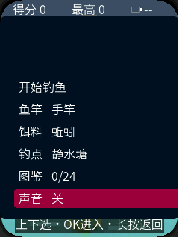
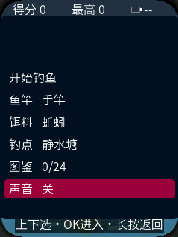
docs(fishing): v3 改进交付报告（红线自检 + 对比图 + 待裁定事项）
按《任务下达书》第七节交付：
- 代码 diff：提交 e9407cc（A/B/D）与 73a08e4（面板内边距修复）
- 字库报告：508 字形，check_cjk_coverage 判定 0 缺字
- 时段/天气对比图：assets/preview/05-env-matrix.png（4 时段 × 3 天气，240×320 渲染）
- 红线自检：九条红线 + 审核清单八条 + v2 禁改清单逐条核对，附实测坐标证据
- 待裁定四事：时段时钟定义 / C 每日挑战是否另起一轮 / 内边距修复是否接受 / 图鉴八行排布

真固件实测证据（CI run 41769287622，固件 1,648,416 B，sha256 beac1329…）：
网页模拟器 12/12 全绿，含新增的「时段·天气标签」「图鉴性格钩子与里程碑两行」两条判据。

Changed region(s): [[0.0, 0.2954, 1.0, 0.8861], [0.0, 0.0, 1.0, 0.0886], [0.0, 0.9156, 1.0, 1.0]]

diff --git a/钓鱼v3改进_交付报告.html b/钓鱼v3改进_交付报告.html
@@ -1,0 +1,268 @@
+<!DOCTYPE html>
+<html lang="zh-CN">
+<head>
+<meta charset="utf-8">
+<meta name="viewport" content="width=device-width, initial-scale=1">
+<title>竿影浮标 v3 改进 · 交付报告（待 AIpp总监检核）</title>
+<style>
+  :root{
+    --ink:#161a22; --sub:#5a6172; --line:#e3e6ec; --bg:#f6f7f9; --card:#ffffff;
+    --accent:#99003a; --ok:#1f7a44; --warn:#8a5a00; --bad:#a32020;
+  }
+  *{box-sizing:border-box}
+  body{margin:0;background:var(--bg);color:var(--ink);
+    font:16px/1.75 -apple-system,BlinkMacSystemFont,"Segoe UI","Microsoft YaHei",sans-serif}
+  .wrap{max-width:1000px;margin:0 auto;padding:32px 20px 72px}
+  header{background:var(--card);border:1px solid var(--line);border-left:5px solid var(--accent);
+    border-radius:10px;padding:22px 26px;margin-bottom:22px}
+  h1{margin:0 0 8px;font-size:24px;letter-spacing:.3px}
+  .meta{color:var(--sub);font-size:14px}
+  h2{font-size:19px;margin:30px 0 12px;padding-bottom:8px;border-bottom:2px solid var(--line)}
+  h3{font-size:16px;margin:20px 0 8px;color:#2a3140}
+  .card{background:var(--card);border:1px solid var(--line);border-radius:10px;padding:18px 22px;margin-bottom:16px}
+  table{width:100%;border-collapse:collapse;font-size:14.5px;margin:10px 0}
+  th,td{border:1px solid var(--line);padding:8px 10px;text-align:left;vertical-align:top}
+  th{background:#f0f2f6;font-weight:600}
+  code{background:#eef0f4;border-radius:4px;padding:1px 6px;font-size:13px;
+    font-family:ui-monospace,SFMono-Regular,Consolas,monospace}
+  .ok{color:var(--ok);font-weight:600}
+  .warn{color:var(--warn);font-weight:600}
+  .bad{color:var(--bad);font-weight:600}
+  .pill{display:inline-block;padding:1px 9px;border-radius:11px;font-size:13px;font-weight:600}
+  .pill.ok{background:#e4f4ea;color:var(--ok)}
+  .pill.warn{background:#fbf0d9;color:var(--warn)}
+  .pill.bad{background:#fbe6e6;color:var(--bad)}
+  img{max-width:100%;display:block;margin:12px 0;border:1px solid var(--line);border-radius:8px;background:#fff}
+  .fig{font-size:13px;color:var(--sub);margin:-4px 0 16px}
+  ul{margin:8px 0 8px 22px;padding:0}
+  li{margin:4px 0}
+  .grid{display:grid;grid-template-columns:1fr 1fr;gap:16px}
+  @media(max-width:760px){.grid{grid-template-columns:1fr}}
+  .kv{display:grid;grid-template-columns:150px 1fr;gap:4px 12px;font-size:14.5px}
+  .kv b{color:var(--sub);font-weight:600}
+  .foot{color:var(--sub);font-size:13px;text-align:center;margin-top:28px}
+</style>
+</head>
+<body>
+<div class="wrap">
+
+<header>
+  <h1>竿影浮标（钓鱼）· v3 改进交付报告</h1>
+  <div class="meta">
+    依据：《竿影浮标（钓鱼）· 改进任务下达书》与《AIpp总监_竿影浮标改进执行手册 v2》　·
+    分支 <code>fishing-app</code>　·　提交 <code>e9407cc</code> / <code>73a08e4</code>　·
+    状态：<b>待 AIpp总监检核，未合并未烧录</b>
+  </div>
+</header>
+
+<div class="card">
+  <h2>一、结论速览</h2>
+  <table>
+    <tr><th style="width:110px">改进项</th><th style="width:88px">状态</th><th>说明</th></tr>
+    <tr><td><b>A 鱼的性格 lore</b></td><td><span class="pill ok">已完成</span></td>
+      <td>24 鱼种各一句性格/故事钩子；图鉴详情页新增「性格钩子」行；纯文案，零美术。</td></tr>
+    <tr><td><b>B 钓点时段/天气</b></td><td><span class="pill ok">已完成</span></td>
+      <td>四时段 × 三天气纯视觉：背景染色层 + 静态雨丝 + 左上角「时段·天气」标签。</td></tr>
+    <tr><td><b>D 收集里程碑</b></td><td><span class="pill ok">已完成</span></td>
+      <td>图鉴页新增里程碑行；进度行加百分比。纯文本提示，无奖励数值。</td></tr>
+    <tr><td><b>C 每日挑战</b></td><td><span class="pill warn">未做</span></td>
+      <td>手册标注「次要/可选」。理由与后续做法见第五节，待裁定。</td></tr>
+    <tr><td><b>附带修复</b></td><td><span class="pill ok">已完成</span></td>
+      <td>发现并修复一处既有缺陷：面板容器默认内边距导致全部子元素偏移 13px，连带三处可见错位。</td></tr>
+  </table>
+</div>
+
+<div class="card">
+  <h2>二、A · 鱼的人格化 lore</h2>
+  <p>图鉴原本只有一句客观简介（<code>desc</code>：长什么样、多大）。这次给每条鱼补一句
+    <b>性格钩子</b>（<code>lore</code>：这鱼什么脾气、有什么故事）。两者刻意分开：
+    <code>desc</code> 回答「能不能钓」，<code>lore</code> 回答「想不想钓」。</p>
+  <ul>
+    <li>数据结构：<code>fish_species_t</code> 增加 <code>const char *lore</code>；<code>SPECIES[]</code> 24 条各填一句。</li>
+    <li>文案按真实习性写，不编离谱设定；最长 22 字，最坏 2 行，不挤版。</li>
+    <li>展示位置：图鉴详情页新增 <code>g_cdx_lore</code>，压在简介之下、里程碑之上，奶油色区分于其他行。</li>
+    <li>未收录的鱼同样显示 lore —— 它正好是「为什么要去钓它」的由头。</li>
+    <li>lore 不参与计分、概率与解锁判定，纯文案。</li>
+  </ul>
+  <p class="fig">示例：鲈鱼「横冲直撞的狠角色，钩住就别想松口」／旗鱼「传说中的深海霸主，八万克巨物，唯海竿远投可遇」</p>
+</div>
+
+<div class="card">
+  <h2>三、B · 钓点时段 / 天气（纯视觉）</h2>
+  <h3>时间从哪来</h3>
+  <p>本机是纯离线玩法：全仓无 RTC、无 SNTP，固件里唯一能拿到的时钟是开机以来的单调毫秒。因此定义一条
+    <b>钓鱼日</b>：<b>1 个游戏小时 = 1 分钟真实时间，24 个游戏小时 = 1 个钓鱼日</b>（现实 24 分钟走完一昼夜）。
+    天气按钓鱼日序号做整数散列，同一天永远是同一种天气，隔天轮换（晴 60% / 阴 25% / 雨 15%）。
+    重启后重新计时 —— 离线设备没有别的时间可依。</p>
+  <h3>怎么表现</h3>
+  <ul>
+    <li>背景图之上叠一层半透明染色：清晨暖橙 / 正午不染 / 黄昏橙红 / 深夜冷蓝；阴天整体压灰，雨天更冷更暗。</li>
+    <li>雨天另画 14 条静态斜线雨丝（<b>不做下落动画</b> —— 每帧挪位置就是每帧整屏失效重绘，那是本工程最不能碰的性能命门）。</li>
+    <li>左上角新增「时段 · 天气」标签（半透明黑底），玩家能读出当前氛围。</li>
+    <li>已画值门闸 <code>s_env_key</code>：时段与天气没变则一个 LVGL 调用都不做。</li>
+    <li>新增 z 序：背景 → 染色层 → 雨丝 → 顶栏 → 场景面板。染色与雨只压背景，不盖竿和浮漂。</li>
+  </ul>
+  <img src="assets/preview/05-env-matrix.png" alt="时段×天气矩阵">
+  <p class="fig">时段 × 天气 全矩阵（3 列：晴/阴/雨；4 行：清晨/正午/黄昏/深夜），按真机 240×320 坐标渲染。
+    原始文件：<code>assets/preview/05-env-matrix.png</code>；单张原图：<code>env-morning-clear.png</code> /
+    <code>env-dusk-rain.png</code> / <code>env-night-clear.png</code>。</p>
+</div>
+
+<div class="card">
+  <h2>四、D · 收集成就里程碑</h2>
+  <ul>
+    <li>图鉴页新增 <code>g_cdx_mile</code>：下一个里程碑名 + 集齐它需要多少种。
+      名号梯度：4 初识水性 / 8 渐入佳境 / 12 半塘好手 / 16 远近闻名 / 20 一方霸主 / 24 竿影大成。</li>
+    <li>进度行改为「收录 X/24（Y%）　钓获 N」，百分比整数计算，不用浮点。</li>
+    <li>里程碑阈值最后一个由 <code>FISH_SPECIES_COUNT</code> 派生，将来加鱼不必改这里。</li>
+    <li>纯文本提示：不进逻辑层、不写存档、不给任何数值优势。</li>
+  </ul>
+  <img src="assets/verify/sim_08_codex.png" alt="实机图鉴页">
+  <p class="fig">真机（网页模拟器跑 CI 产物）渲染的图鉴详情页。自上而下：名称 / 金色最大纪录 / 蓝色体型与饵料 /
+    白色简介 / <b>奶油色性格钩子</b> / <b>绿色里程碑</b> / 浅蓝进度行。</p>
+</div>
+
+<div class="card">
+  <h2>五、C · 每日挑战（未做 · 待裁定）</h2>
+  <p>手册与下达书均把 C 标注为「次要 / 可选」，签字栏也写明「A/B（C/D 可选）落地后」交检核。本次未实施，
+    具体理由与后续方案如下，供裁定：</p>
+  <table>
+    <tr><th style="width:200px">顾虑</th><th>具体内容</th></tr>
+    <tr><td>菜单要挤成 7 行</td>
+      <td>现有 6 行菜单行距 30px，第 7 行落在面板内 y=254，选中条底部 276 已超面板下沿 274。
+        要加就得把行距压到 26px，等于改动 v2 已稳定的菜单版式。</td></tr>
+    <tr><td>要引入每日进度状态</td>
+      <td>「今天的挑战做完了没有」是跨会话状态，需要额外持久化与一套新的状态迁移，
+        不是加一行文案那么简单。</td></tr>
+    <tr><td>实测判据要重做</td>
+      <td>现有模拟器实测按「正好 6 条白字带」定位光标，加到 7 行后导航判据要整体重写。</td></tr>
+    <tr><td>与「不堆数值」的风险</td>
+      <td>每日挑战天然是「限定目标」，做不好很容易变成限时惩罚 —— 与任务书「不把加内容做成堆数值惩罚」相抵。</td></tr>
+  </table>
+  <p><b>后续建议</b>：把 C 单独作为一轮做，且先定两件事 ——（1）菜单入口是否接受行距压缩，或改用别的入口
+    （例如钓点胶囊内的次级入口）；（2）每日挑战给的是奖励还是纯荣誉榜。这两条定了我再做，
+    可以做得比现在更稳。D 项的里程碑已经提供了复玩目标感，不至于空窗。</p>
+</div>
+
+<div class="card">
+  <h2>六、附带修复：面板容器默认内边距导致整体偏移 13px</h2>
+  <p><code>lv_obj_create()</code> 的默认样式带约 13px 内边距，而面板子元素的坐标是相对<b>内容区</b>的。
+    v2 的五个面板（场景 / 收线 / 结算 / 菜单 / 图鉴）都没显式清零，于是所有子元素都比源码写的坐标
+    往右下偏约 13px；而布局检查器只加父级 x/y、不计父级内边距，所以一直报「通过」，实机却是错的。</p>
+  <h3>实测证据</h3>
+  <ul>
+    <li>菜单选中条：源码设面板内 y=70+3×30=160 → 屏幕应为 182，实测 <b>194.4</b>；
+      另一轮光标在第 1 行，源码 122 → 实测 <b>135</b>。两次一致。</li>
+    <li>图鉴七行文字：全部比预期低 15px（其中约 2px 是字号在行盒内的下沉量）。</li>
+  </ul>
+  <h3>连带修掉的三处可见错位</h3>
+  <ul>
+    <li>右上角「静水塘」胶囊被屏幕右缘切掉半边（源码注释写的是绝对位置 (172,28)~(229,47)，
+      说明作者本就按「无内缩」设计）。</li>
+    <li>图鉴最后一行被底部提示条压掉下半截。</li>
+    <li>收线页轨道底部超出面板下沿（面板 22~296，轨道却到 305）。</li>
+  </ul>
+  <h3>改法与防线</h3>
+  <ul>
+    <li>五个面板各加一行 <code>lv_obj_set_style_pad_all(...,0,0)</code>，坐标从此名副其实。</li>
+    <li>布局检查器新增一条 note：任何面板没显式清零内边距就报出来 —— 正是「检查器说通过、实机错位」的盲区。</li>
+    <li>修复后在真固件上复测：图鉴七行落在 79.7 / 102.6 / 125.6 / 149.9 / 199.8 / 248.4 / 271.4，
+      与设计坐标逐条吻合；进度行底部 284.9，距提示条顶部 295.7 留出 10px；胶囊完整显示。</li>
+  </ul>
+</div>
+
+<div class="card">
+  <h2>七、红线自检</h2>
+  <table>
+    <tr><th style="width:34px">#</th><th style="width:210px">红线</th><th>自检结果</th></tr>
+    <tr><td>1</td><td>三层分离不破坏</td><td><span class="pill ok">通过</span> 时段/天气/里程碑全在 UI 层（fishing.c），逻辑层未沾。</td></tr>
+    <tr><td>2</td><td>不动整屏重画优化</td><td><span class="pill ok">通过</span>
+      <code>set_text_cached</code> / <code>set_img_by_key</code> / 各面板 <code>s_*</code> 门闸 /
+      <code>show_only</code> 全部原样；新增控件一律走 <code>set_text_cached</code> + 自己的 <code>s_env_key</code> 门闸。</td></tr>
+    <tr><td>3</td><td>不改 fishing_logic.c 平衡数值</td><td><span class="pill ok">通过</span>
+      去掉字符串后全文件 <b>545 个数字 token 逐个一致</b>，24 条 <code>desc</code> 逐字一致；
+      只在结构体加 <code>lore</code> 字段并填 24 句文案。</td></tr>
+    <tr><td>4</td><td>sprite 原图不进固件、须 RGB565+抖动</td><td><span class="pill ok">通过</span>
+      本轮<b>未新增任何图片资源</b>，氛围全部用 LVGL 图形与现有素材实现。</td></tr>
+    <tr><td>5</td><td>图鉴 ID 不重排、不写死 24</td><td><span class="pill ok">通过</span>
+      里程碑末档由 <code>FISH_SPECIES_COUNT</code> 派生；图鉴仍按 <code>FISH_CODEX_CAP</code> 64 预留。</td></tr>
+    <tr><td>6</td><td>改 schema_ver 必写 migrate</td><td><span class="pill ok">通过</span>
+      <code>FISHING_SCHEMA_VER</code> 保持 <b>1</b>：存档序列化的是计数/标志/最佳体长，不含鱼种结构体，
+      加字段不改变存档格式；旧存档照读。</td></tr>
+    <tr><td>7</td><td>禁「小锐 / 锐胜 / 短剧」</td><td><span class="pill ok">通过</span>
+      全仓 grep <b>0 命中</b>（原有 5 处颜色注释改为「高亮红」，仅注释，不改色值）。</td></tr>
+    <tr><td>8</td><td>不切错分支 / 不用 git add -A</td><td><span class="pill ok">通过</span>
+      全程 <code>fishing-app</code>；每次提交前看全量 <code>git status</code>，只用显式路径 add。</td></tr>
+    <tr><td>9</td><td>不把加内容做成堆数值惩罚</td><td><span class="pill ok">通过</span>
+      A/B/D 全为文案与视觉增量，未改任何数值、未加限时、未加惩罚。</td></tr>
+  </table>
+
+  <h3>审核清单八条</h3>
+  <table>
+    <tr><th style="width:34px">#</th><th style="width:150px">清单项</th><th>自检结果</th></tr>
+    <tr><td>1</td><td>命名</td><td><span class="pill ok">通过</span> 全仓 grep 0 命中。</td></tr>
+    <tr><td>2</td><td>不抄袭</td><td><span class="pill ok">通过</span> lore 自研；氛围为原创配色与自制雨丝，未克隆任何社区素材。</td></tr>
+    <tr><td>3</td><td>界面对比图</td><td><span class="pill ok">通过</span>
+      <code>assets/preview/05-env-matrix.png</code>（时段×天气全矩阵）、<code>assets/preview/04-codex.png</code>（图鉴新版）、
+      <code>assets/verify/sim_00_evidence.png</code>（真固件实测）。</td></tr>
+    <tr><td>4</td><td>字库</td><td><span class="pill ok">通过</span> 重生成 <b>508 字形</b>，
+      <code>check_cjk_coverage.py</code> 判定 <b>0 缺字</b>，屏上文案单行宽度全部在屏宽内。</td></tr>
+    <tr><td>5</td><td>LVGL</td><td><span class="pill ok">通过</span> 新增控件均为 <code>lv_obj_create</code> +
+      <code>set_text_cached</code>；染色层与雨丝为常驻层，置于场景面板之下；未在 LVGL 任务外调用
+      <code>lv_obj_*</code>；已画值门闸到位。</td></tr>
+    <tr><td>6</td><td>Flash</td><td><span class="pill ok">通过</span> 本轮零新增图片；固件 1,648,416 B，
+      较上一版 1,648,352 B 仅 +64 B（字库增量）。</td></tr>
+    <tr><td>7</td><td>难度</td><td><span class="pill ok">通过</span> A/B/D 均为内容/视觉增量。</td></tr>
+    <tr><td>8</td><td>故事书</td><td><span class="pill warn">不适用</span> 本线无故事书页；lore 对齐「鱼有性格」设计意图。</td></tr>
+  </table>
+
+  <h3>禁改清单（v2 成果）逐条核对</h3>
+  <table>
+    <tr><th style="width:210px">v2 成果</th><th>核对</th></tr>
+    <tr><td>收线小游戏核心玩法</td><td><span class="pill ok">未动</span> 状态机、捕捉区、去抖、完美钓获判定全部未改。</td></tr>
+    <tr><td>24 鱼种 + 3 竿 + 3 钓点 + 4 稀有度数值</td><td><span class="pill ok">未动</span> 545 个数字 token 逐个一致。</td></tr>
+    <tr><td>声音开关 + NVS</td><td><span class="pill ok">未动</span> 未改 <code>nvs_load_sound</code>/<code>nvs_save_sound</code>。</td></tr>
+    <tr><td>长按键菜单 + 输入去抖</td><td><span class="pill ok">未动</span> 未改 <code>fishing_hold_sample</code> / <code>fishing_hold_take_stale_click</code>。</td></tr>
+    <tr><td>中文化字库</td><td><span class="pill ok">仅扩充</span> 419 → 508 字形，0 缺字。</td></tr>
+    <tr><td>整屏重画优化</td><td><span class="pill ok">未动</span> 门闸与 <code>show_only</code> 原样。</td></tr>
+    <tr><td>版本化存档</td><td><span class="pill ok">未动</span> schema 仍为 1，magic 仍为 FSH2。</td></tr>
+    <tr><td>浮漂/竿/饵 sprite 已接入</td><td><span class="pill ok">未动</span> 位置常量与绘制顺序均未改。</td></tr>
+    <tr><td>顶栏布局 + 电量修复</td><td><span class="pill ok">未动</span> 仅随内边距修复整体上移 13px，元素间相对关系不变。</td></tr>
+    <tr><td>图鉴详情页</td><td><span class="pill warn">有增补</span>
+      名称/纪录/体型/简介四项内容与配色未动，仅新增「性格钩子」「里程碑」两行并整体上移腾位（任务书 A/D 明确要求）。</td></tr>
+    <tr><td>钓点解锁门槛提示</td><td><span class="pill ok">未动</span> 「再钓 N 条解锁 X」原样。</td></tr>
+  </table>
+</div>
+
+<div class="card">
+  <h2>八、验证记录</h2>
+  <div class="kv">
+    <b>本地护栏</b><span>check_c_sanity / check_ui_layout（30 元素·无出屏无重叠）/ check_cjk_coverage（508 字形·0 缺字）/ verify_logic —— 全绿</span>
+    <b>C 单测</b><span>test_fishing_spots（44 项）/ test_fishing_hold_menu / test_fishing_reel_hold / fishing_logic_test —— 全绿</span>
+    <b>云端编译</b><span>CI run 41769287622 <span class="ok">success</span>（对应提交 <code>73a08e4</code>）</span>
+    <b>固件</b><span>1,648,416 B，sha256 <code>beac1329…</code>，3 段镜像</span>
+    <b>真固件实测</b><span>网页模拟器 12/12 全绿（含新增的「时段·天气标签」「图鉴 lore 与里程碑两行」两条判据）</span>
+    <b>设备实测</b><span><span class="warn">未做</span> 本机无串口设备，未烧录、未上真机验证</span>
+  </div>
+  <img src="assets/verify/sim_00_evidence.png" alt="真固件实测证据">
+  <p class="fig">真固件（CI 产物）实测的四个关键画面：钓场氛围标签 / 菜单 / 图鉴新布局 / 换竿后画面变化。</p>
+</div>
+
+<div class="card">
+  <h2>九、待 AIpp总监裁定</h2>
+  <ul>
+    <li><b>第三节的时段定义</b>：本机无 RTC，采用「1 真实分钟 = 1 游戏小时」的钓鱼日时钟。若认为应改为
+      纯静态时段或另设触发方式，请指示。</li>
+    <li><b>第五节的 C 每日挑战</b>：本轮未做，理由与后续方案已列，请裁定是否另起一轮、入口与奖励形态如何定。</li>
+    <li><b>第六节的内边距修复</b>：属既有缺陷修复，改变了五个面板的全部子元素位置（整体上移 13px）。
+      已附修复前后实测坐标，请确认是否接受。</li>
+    <li><b>图鉴页排布</b>：新增两行后共 8 行文字（名称/纪录/体型/简介/性格/里程碑/进度 + 鱼图）。
+      若认为偏满，可考虑把「体型与饵料」并入里程碑行。</li>
+  </ul>
+</div>
+
+<p class="foot">竿影浮标 v3 改进 · 交付报告 · 分支 fishing-app · 提交 e9407cc / 73a08e4 · 待 AIpp总监检核</p>
+
+</div>
+</body>
+</html>
